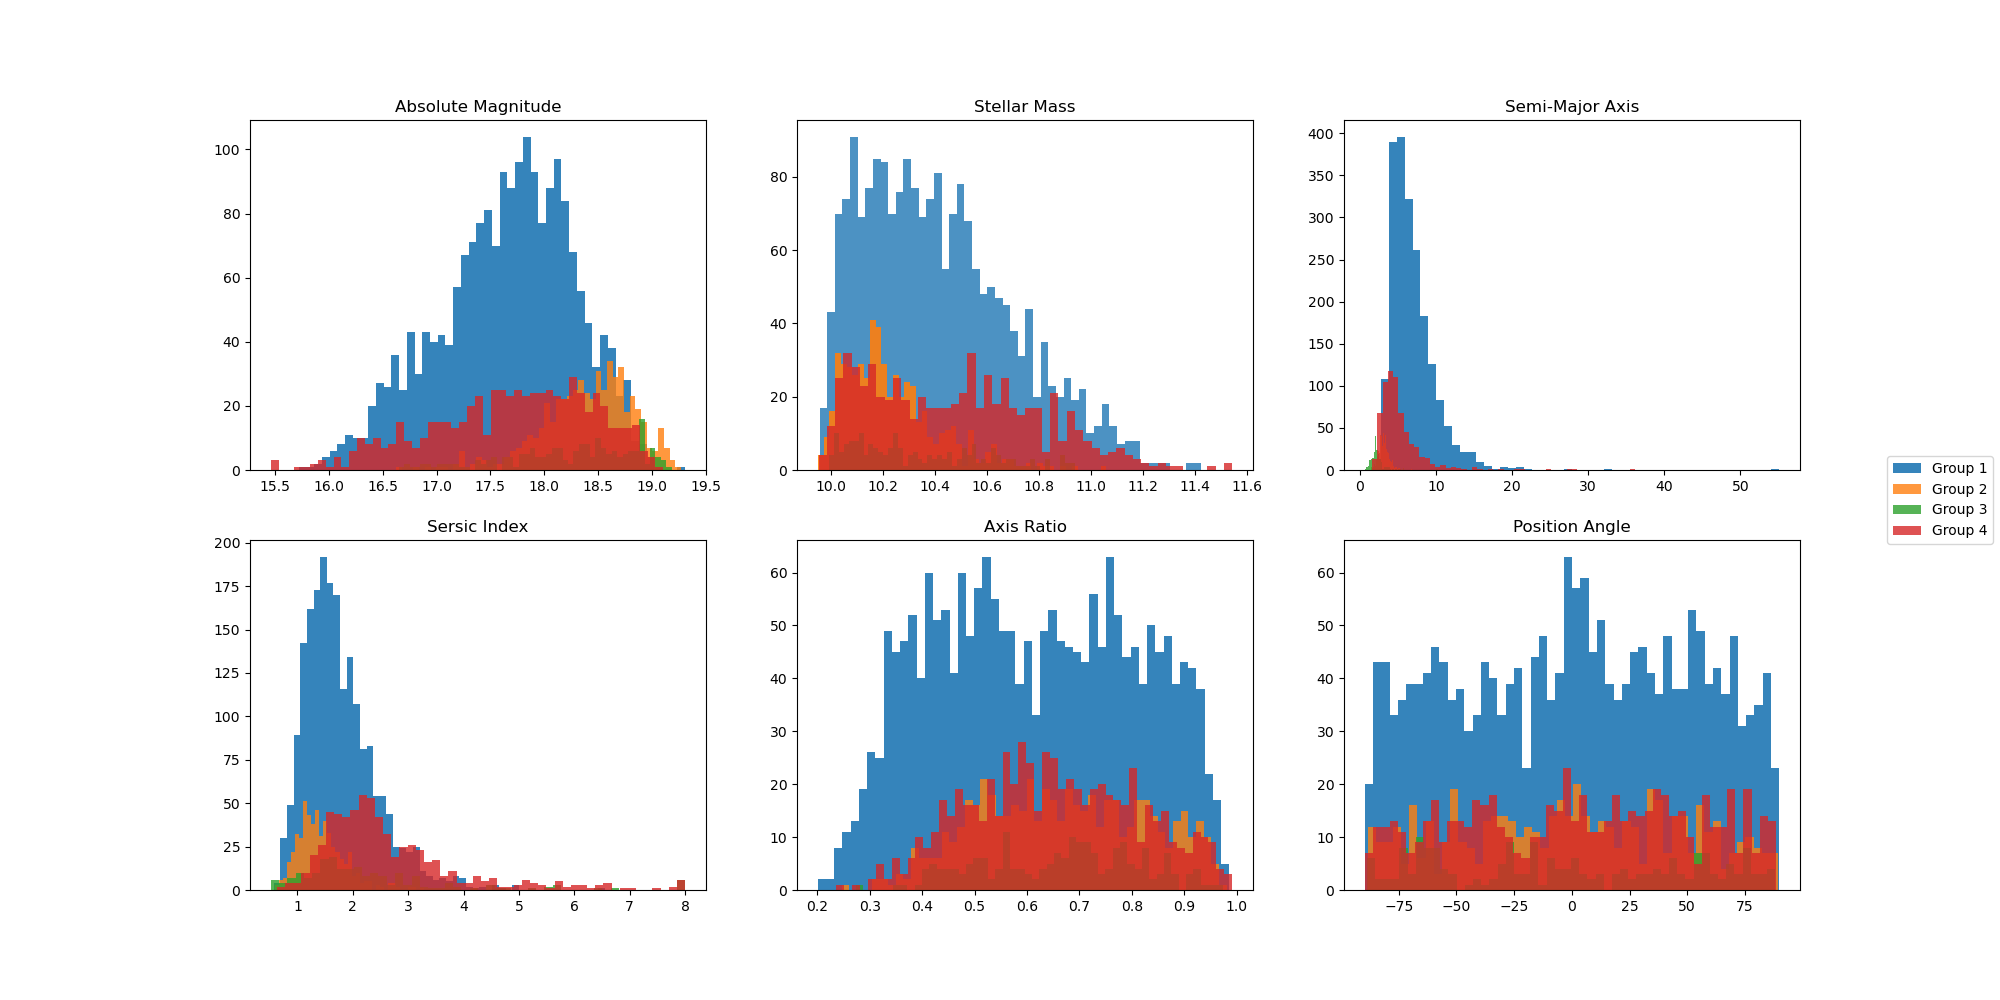
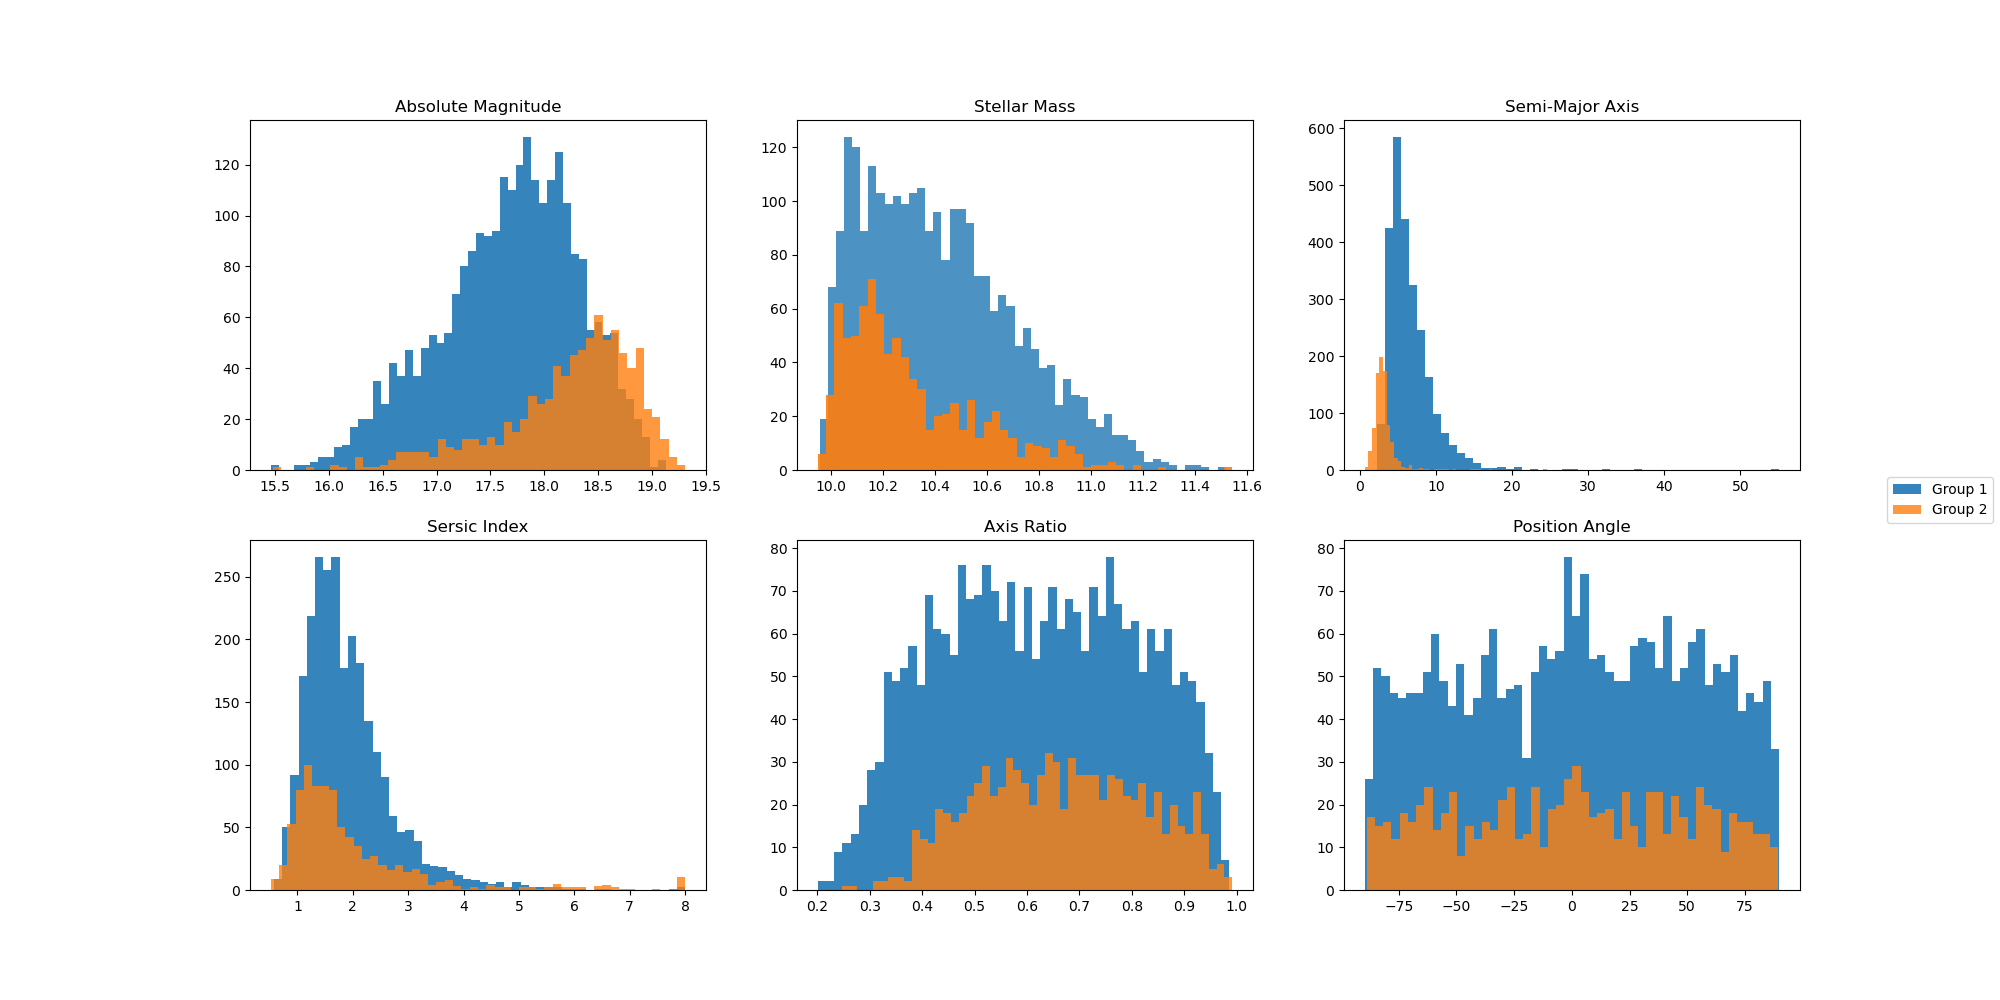
Code

diff --git a/property_comparison.py b/property_comparison.py
@@ -34,7 +34,7 @@ clusters_k = kmeans.fit_predict(extracted_features)
 centers_k = kmeans.cluster_centers_
 
 # perform hierarchical ward clustering
-hierarchical = AgglomerativeClustering(n_clusters=4, affinity="euclidean", linkage="ward")
+hierarchical = AgglomerativeClustering(n_clusters=2, affinity="euclidean", linkage="ward")
 
 # get hierarchical clusters
 clusters_h = hierarchical.fit_predict(extracted_features)
@@ -117,185 +117,187 @@ print(np.array(group_4).shape)
 
 
 
-# fig, axs = plt.subplots(2, 3, figsize=(20,10))
-#
-# axs[0, 0].hist(group_1["galfit_mag"], bins=50, alpha=0.9)
-# axs[0, 0].hist(group_2["galfit_mag"], bins=50, alpha=0.8)
+fig, axs = plt.subplots(2, 3, figsize=(20,10))
+
+axs[0, 0].hist(group_1["galfit_mag"], bins=50, alpha=0.9)
+axs[0, 0].hist(group_2["galfit_mag"], bins=50, alpha=0.8)
 # axs[0, 0].hist(group_3["galfit_mag"], bins=50, alpha=0.8)
 # axs[0, 0].hist(group_4["galfit_mag"], bins=50, alpha=0.8)
+axs[0, 0].set_title("Absolute Magnitude")
+
+# axs[0, 0].hist(group_1["galfit_mag"], bins=50, alpha=0.9, zorder=0)
+# axs[0, 0].hist(group_4["galfit_mag"], bins=50, alpha=0.8, zorder=10)
+# axs[0, 0].hist(group_2["galfit_mag"], bins=50, alpha=0.8, zorder=15)
+# axs[0, 0].hist(group_1["galfit_mag"], bins=50, alpha=0.8, zorder=5)
 # axs[0, 0].set_title("Absolute Magnitude")
-#
-# # axs[0, 0].hist(group_1["galfit_mag"], bins=50, alpha=0.9, zorder=0)
-# # axs[0, 0].hist(group_4["galfit_mag"], bins=50, alpha=0.8, zorder=10)
-# # axs[0, 0].hist(group_2["galfit_mag"], bins=50, alpha=0.8, zorder=15)
-# # axs[0, 0].hist(group_1["galfit_mag"], bins=50, alpha=0.8, zorder=5)
-# # axs[0, 0].set_title("Absolute Magnitude")
-#
-#
-# axs[0, 1].hist(group_1["galfit_lmstar"], bins=50, alpha=0.8)
-# axs[0, 1].hist(group_2["galfit_lmstar"], bins=50, alpha=0.9)
+
+
+axs[0, 1].hist(group_1["galfit_lmstar"], bins=50, alpha=0.8)
+axs[0, 1].hist(group_2["galfit_lmstar"], bins=50, alpha=0.9)
 # axs[0, 1].hist(group_3["galfit_lmstar"], bins=50, alpha=0.8)
 # axs[0, 1].hist(group_4["galfit_lmstar"], bins=50, alpha=0.8)
+axs[0, 1].set_title("Stellar Mass")
+
+# axs[0, 1].hist(group_1["galfit_lmstar"], bins=50, alpha=0.8, zorder=0)
+# axs[0, 1].hist(group_2["galfit_lmstar"], bins=50, alpha=0.9, zorder=10)
+# axs[0, 1].hist(group_3["galfit_lmstar"], bins=50, alpha=0.8, zorder=15)
+# axs[0, 1].hist(group_4["galfit_lmstar"], bins=50, alpha=0.8, zorder=5)
 # axs[0, 1].set_title("Stellar Mass")
-#
-# # axs[0, 1].hist(group_1["galfit_lmstar"], bins=50, alpha=0.8, zorder=0)
-# # axs[0, 1].hist(group_2["galfit_lmstar"], bins=50, alpha=0.9, zorder=10)
-# # axs[0, 1].hist(group_3["galfit_lmstar"], bins=50, alpha=0.8, zorder=15)
-# # axs[0, 1].hist(group_4["galfit_lmstar"], bins=50, alpha=0.8, zorder=5)
-# # axs[0, 1].set_title("Stellar Mass")
-#
-# axs[0, 2].hist(group_1["galfit_re"], bins=50, alpha=0.9)
-# axs[0, 2].hist(group_2["galfit_re"], bins=50, alpha=0.8)
+
+axs[0, 2].hist(group_1["galfit_re"], bins=50, alpha=0.9)
+axs[0, 2].hist(group_2["galfit_re"], bins=50, alpha=0.8)
 # axs[0, 2].hist(group_3["galfit_re"], bins=50, alpha=0.8)
 # axs[0, 2].hist(group_4["galfit_re"], bins=50, alpha=0.8)
-# axs[0, 2].set_title("Semi-Major Axis")
-#
-# axs[1, 0].hist(group_1["galfit_n"], bins=50, alpha=0.9)
-# axs[1, 0].hist(group_2["galfit_n"], bins=50, alpha=0.8)
+axs[0, 2].set_title("Semi-Major Axis")
+
+axs[1, 0].hist(group_1["galfit_n"], bins=50, alpha=0.9)
+axs[1, 0].hist(group_2["galfit_n"], bins=50, alpha=0.8)
 # axs[1, 0].hist(group_3["galfit_n"], bins=50, alpha=0.8)
 # axs[1, 0].hist(group_4["galfit_n"], bins=50, alpha=0.8)
-# axs[1, 0].set_title("Sersic Index")
-#
-# axs[1, 1].hist(group_1["galfit_q"], bins=50, alpha=0.9)
-# axs[1, 1].hist(group_2["galfit_q"], bins=50, alpha=0.8)
+axs[1, 0].set_title("Sersic Index")
+
+axs[1, 1].hist(group_1["galfit_q"], bins=50, alpha=0.9)
+axs[1, 1].hist(group_2["galfit_q"], bins=50, alpha=0.8)
 # axs[1, 1].hist(group_3["galfit_q"], bins=50, alpha=0.8)
 # axs[1, 1].hist(group_4["galfit_q"], bins=50, alpha=0.8)
-# axs[1, 1].set_title("Axis Ratio")
-#
-# axs[1, 2].hist(group_1["galfit_PA"], bins=50, alpha=0.9)
-# axs[1, 2].hist(group_2["galfit_PA"], bins=50, alpha=0.8)
+axs[1, 1].set_title("Axis Ratio")
+
+axs[1, 2].hist(group_1["galfit_PA"], bins=50, alpha=0.9)
+axs[1, 2].hist(group_2["galfit_PA"], bins=50, alpha=0.8)
 # axs[1, 2].hist(group_3["galfit_PA"], bins=50, alpha=0.8)
 # axs[1, 2].hist(group_4["galfit_PA"], bins=50, alpha=0.8)
-# axs[1, 2].set_title("Position Angle")
+axs[1, 2].set_title("Position Angle")
+
+fig.legend(labels=["Group 1", "Group 2"], loc="center right")
+
+plt.savefig("Plots/2_cluster_properties")
+plt.show()
+
+
+
+
+
+
+# group_1_random_index = random.sample(range(0, len(group_1_id)), 9)
+# group_2_random_index = random.sample(range(0, len(group_2_id)), 9)
+# group_3_random_index = random.sample(range(0, len(group_3_id)), 9)
+# group_4_random_index = random.sample(range(0, len(group_4_id)), 9)
 #
-# fig.legend(labels=["Group 1", "Group 2", "Group 3", "Group 4"], loc="center right")
+# group_1_random = group_1_id.iloc[group_1_random_index].tolist()
+# group_2_random = group_2_id.iloc[group_2_random_index].tolist()
+# group_3_random = group_3_id.iloc[group_3_random_index].tolist()
+# group_4_random = group_4_id.iloc[group_4_random_index].tolist()
 #
-# plt.savefig("Plots/2_cluster_properties")
+# # group_1_random = [3518865, 3533021, 10108400, 10452290, 9195988, 10625818, 17097594, 7164803, 9563813]
+# # group_2_random = [12485051, 9599139, 14266206, 9032934, 17858355, 10372952, 15996483, 9542933, 7144268]
+#
+# print(group_1_random)
+# print(group_2_random)
+# print(group_3_random)
+# print(group_4_random)
+#
+# # fig, axs = plt.subplots(3, 6, figsize=(20,10))
+#
+# fig = plt.figure(constrained_layout=False, figsize=(20, 20))
+#
+# # gs1 = fig.add_gridspec(nrows=3, ncols=3, left=0.05, right=0.48, wspace=0.05, hspace=0.05)
+# # gs2 = fig.add_gridspec(nrows=3, ncols=3, left=0.55, right=0.98, wspace=0.05, hspace=0.05)
+# gs1 = fig.add_gridspec(nrows=3, ncols=3, left=0.05, right=0.48, wspace=0.05, hspace=0.05, top=0.98, bottom=0.55)
+# gs2 = fig.add_gridspec(nrows=3, ncols=3, left=0.55, right=0.98, wspace=0.05, hspace=0.05, top=0.98, bottom=0.55)
+# gs3 = fig.add_gridspec(nrows=3, ncols=3, left=0.05, right=0.48, wspace=0.05, hspace=0.05, top=0.48, bottom=0.05)
+# gs4 = fig.add_gridspec(nrows=3, ncols=3, left=0.55, right=0.98, wspace=0.05, hspace=0.05, top=0.48, bottom=0.05)
+#
+# for i in range(0, 3):
+#
+#     g1_ax1 = fig.add_subplot(gs1[0, i])
+#     image = mpimg.imread("/cosma7/data/Eagle/web-storage/RefL0100N1504_Subhalo/galface_" + str(group_1_random[i]) + ".png")
+#     g1_ax1.imshow(image)
+#     g1_ax1.get_xaxis().set_visible(False)
+#     g1_ax1.get_yaxis().set_visible(False)
+#
+#     g1_ax2 = fig.add_subplot(gs1[1, i])
+#     image = mpimg.imread("/cosma7/data/Eagle/web-storage/RefL0100N1504_Subhalo/galface_" + str(group_1_random[i+3]) + ".png")
+#     g1_ax2.imshow(image)
+#     g1_ax2.get_xaxis().set_visible(False)
+#     g1_ax2.get_yaxis().set_visible(False)
+#
+#     g1_ax3 = fig.add_subplot(gs1[2, i])
+#     image = mpimg.imread("/cosma7/data/Eagle/web-storage/RefL0100N1504_Subhalo/galface_" + str(group_1_random[i+6]) + ".png")
+#     g1_ax3.imshow(image)
+#     g1_ax3.get_xaxis().set_visible(False)
+#     g1_ax3.get_yaxis().set_visible(False)
+#
+#
+#     g2_ax1 = fig.add_subplot(gs2[0, i])
+#     image = mpimg.imread("/cosma7/data/Eagle/web-storage/RefL0100N1504_Subhalo/galface_" + str(group_2_random[i]) + ".png")
+#     g2_ax1.imshow(image)
+#     g2_ax1.get_xaxis().set_visible(False)
+#     g2_ax1.get_yaxis().set_visible(False)
+#
+#     g2_ax2 = fig.add_subplot(gs2[1, i])
+#     image = mpimg.imread("/cosma7/data/Eagle/web-storage/RefL0100N1504_Subhalo/galface_" + str(group_2_random[i+3]) + ".png")
+#     g2_ax2.imshow(image)
+#     g2_ax2.get_xaxis().set_visible(False)
+#     g2_ax2.get_yaxis().set_visible(False)
+#
+#     g2_ax3 = fig.add_subplot(gs2[2, i])
+#     image = mpimg.imread("/cosma7/data/Eagle/web-storage/RefL0100N1504_Subhalo/galface_" + str(group_2_random[i+6]) + ".png")
+#     g2_ax3.imshow(image)
+#     g2_ax3.get_xaxis().set_visible(False)
+#     g2_ax3.get_yaxis().set_visible(False)
+#
+#
+#     g3_ax1 = fig.add_subplot(gs3[0, i])
+#     image = mpimg.imread("/cosma7/data/Eagle/web-storage/RefL0100N1504_Subhalo/galface_" + str(group_3_random[i]) + ".png")
+#     g3_ax1.imshow(image)
+#     g3_ax1.get_xaxis().set_visible(False)
+#     g3_ax1.get_yaxis().set_visible(False)
+#
+#     g3_ax2 = fig.add_subplot(gs3[1, i])
+#     image = mpimg.imread("/cosma7/data/Eagle/web-storage/RefL0100N1504_Subhalo/galface_" + str(group_3_random[i+3]) + ".png")
+#     g3_ax2.imshow(image)
+#     g3_ax2.get_xaxis().set_visible(False)
+#     g3_ax2.get_yaxis().set_visible(False)
+#
+#     g3_ax3 = fig.add_subplot(gs3[2, i])
+#     image = mpimg.imread("/cosma7/data/Eagle/web-storage/RefL0100N1504_Subhalo/galface_" + str(group_3_random[i+6]) + ".png")
+#     g3_ax3.imshow(image)
+#     g3_ax3.get_xaxis().set_visible(False)
+#     g3_ax3.get_yaxis().set_visible(False)
+#
+#
+#     g4_ax1 = fig.add_subplot(gs4[0, i])
+#     image = mpimg.imread("/cosma7/data/Eagle/web-storage/RefL0100N1504_Subhalo/galface_" + str(group_4_random[i]) + ".png")
+#     g4_ax1.imshow(image)
+#     g4_ax1.get_xaxis().set_visible(False)
+#     g4_ax1.get_yaxis().set_visible(False)
+#
+#     g4_ax2 = fig.add_subplot(gs4[1, i])
+#     image = mpimg.imread("/cosma7/data/Eagle/web-storage/RefL0100N1504_Subhalo/galface_" + str(group_4_random[i+3]) + ".png")
+#     g4_ax2.imshow(image)
+#     g4_ax2.get_xaxis().set_visible(False)
+#     g4_ax2.get_yaxis().set_visible(False)
+#
+#     g4_ax3 = fig.add_subplot(gs4[2, i])
+#     image = mpimg.imread("/cosma7/data/Eagle/web-storage/RefL0100N1504_Subhalo/galface_" + str(group_4_random[i+6]) + ".png")
+#     g4_ax3.imshow(image)
+#     g4_ax3.get_xaxis().set_visible(False)
+#     g4_ax3.get_yaxis().set_visible(False)
+#
+#
+#
+#
+#     if i == 1:
+#         g1_ax1.set_title(("Group 1 " + str(print(np.array(group_1).shape[0]))), fontsize=30, pad=20)
+#         g2_ax1.set_title(("Group 2 " + str(print(np.array(group_1).shape[0]))), fontsize=30, pad=20)
+#         g3_ax1.set_title(("Group 3 " + str(print(np.array(group_1).shape[0]))), fontsize=30, pad=20)
+#         g4_ax1.set_title(("Group 4 " + str(print(np.array(group_1).shape[0]))), fontsize=30, pad=20)
+#
+#
+#
+# plt.savefig("Plots/4_cluster_" + str(encoding_dim) + "_feature_originals_4")
 # plt.show()
 
-
-
-
-
-group_1_random_index = random.sample(range(0, len(group_1_id)), 9)
-group_2_random_index = random.sample(range(0, len(group_2_id)), 9)
-group_3_random_index = random.sample(range(0, len(group_3_id)), 9)
-group_4_random_index = random.sample(range(0, len(group_4_id)), 9)
-
-group_1_random = group_1_id.iloc[group_1_random_index].tolist()
-group_2_random = group_2_id.iloc[group_2_random_index].tolist()
-group_3_random = group_3_id.iloc[group_3_random_index].tolist()
-group_4_random = group_4_id.iloc[group_4_random_index].tolist()
-
-# group_1_random = [3518865, 3533021, 10108400, 10452290, 9195988, 10625818, 17097594, 7164803, 9563813]
-# group_2_random = [12485051, 9599139, 14266206, 9032934, 17858355, 10372952, 15996483, 9542933, 7144268]
-
-print(group_1_random)
-print(group_2_random)
-print(group_3_random)
-print(group_4_random)
-
-# fig, axs = plt.subplots(3, 6, figsize=(20,10))
-
-fig = plt.figure(constrained_layout=False, figsize=(20, 20))
-
-# gs1 = fig.add_gridspec(nrows=3, ncols=3, left=0.05, right=0.48, wspace=0.05, hspace=0.05)
-# gs2 = fig.add_gridspec(nrows=3, ncols=3, left=0.55, right=0.98, wspace=0.05, hspace=0.05)
-gs1 = fig.add_gridspec(nrows=3, ncols=3, left=0.05, right=0.48, wspace=0.05, hspace=0.05, top=0.98, bottom=0.55)
-gs2 = fig.add_gridspec(nrows=3, ncols=3, left=0.55, right=0.98, wspace=0.05, hspace=0.05, top=0.98, bottom=0.55)
-gs3 = fig.add_gridspec(nrows=3, ncols=3, left=0.05, right=0.48, wspace=0.05, hspace=0.05, top=0.48, bottom=0.05)
-gs4 = fig.add_gridspec(nrows=3, ncols=3, left=0.55, right=0.98, wspace=0.05, hspace=0.05, top=0.48, bottom=0.05)
-
-for i in range(0, 3):
-
-    g1_ax1 = fig.add_subplot(gs1[0, i])
-    image = mpimg.imread("/cosma7/data/Eagle/web-storage/RefL0100N1504_Subhalo/galface_" + str(group_1_random[i]) + ".png")
-    g1_ax1.imshow(image)
-    g1_ax1.get_xaxis().set_visible(False)
-    g1_ax1.get_yaxis().set_visible(False)
-
-    g1_ax2 = fig.add_subplot(gs1[1, i])
-    image = mpimg.imread("/cosma7/data/Eagle/web-storage/RefL0100N1504_Subhalo/galface_" + str(group_1_random[i+3]) + ".png")
-    g1_ax2.imshow(image)
-    g1_ax2.get_xaxis().set_visible(False)
-    g1_ax2.get_yaxis().set_visible(False)
-
-    g1_ax3 = fig.add_subplot(gs1[2, i])
-    image = mpimg.imread("/cosma7/data/Eagle/web-storage/RefL0100N1504_Subhalo/galface_" + str(group_1_random[i+6]) + ".png")
-    g1_ax3.imshow(image)
-    g1_ax3.get_xaxis().set_visible(False)
-    g1_ax3.get_yaxis().set_visible(False)
-
-
-    g2_ax1 = fig.add_subplot(gs2[0, i])
-    image = mpimg.imread("/cosma7/data/Eagle/web-storage/RefL0100N1504_Subhalo/galface_" + str(group_2_random[i]) + ".png")
-    g2_ax1.imshow(image)
-    g2_ax1.get_xaxis().set_visible(False)
-    g2_ax1.get_yaxis().set_visible(False)
-
-    g2_ax2 = fig.add_subplot(gs2[1, i])
-    image = mpimg.imread("/cosma7/data/Eagle/web-storage/RefL0100N1504_Subhalo/galface_" + str(group_2_random[i+3]) + ".png")
-    g2_ax2.imshow(image)
-    g2_ax2.get_xaxis().set_visible(False)
-    g2_ax2.get_yaxis().set_visible(False)
-
-    g2_ax3 = fig.add_subplot(gs2[2, i])
-    image = mpimg.imread("/cosma7/data/Eagle/web-storage/RefL0100N1504_Subhalo/galface_" + str(group_2_random[i+6]) + ".png")
-    g2_ax3.imshow(image)
-    g2_ax3.get_xaxis().set_visible(False)
-    g2_ax3.get_yaxis().set_visible(False)
-
-
-    g3_ax1 = fig.add_subplot(gs3[0, i])
-    image = mpimg.imread("/cosma7/data/Eagle/web-storage/RefL0100N1504_Subhalo/galface_" + str(group_3_random[i]) + ".png")
-    g3_ax1.imshow(image)
-    g3_ax1.get_xaxis().set_visible(False)
-    g3_ax1.get_yaxis().set_visible(False)
-
-    g3_ax2 = fig.add_subplot(gs3[1, i])
-    image = mpimg.imread("/cosma7/data/Eagle/web-storage/RefL0100N1504_Subhalo/galface_" + str(group_3_random[i+3]) + ".png")
-    g3_ax2.imshow(image)
-    g3_ax2.get_xaxis().set_visible(False)
-    g3_ax2.get_yaxis().set_visible(False)
-
-    g3_ax3 = fig.add_subplot(gs3[2, i])
-    image = mpimg.imread("/cosma7/data/Eagle/web-storage/RefL0100N1504_Subhalo/galface_" + str(group_3_random[i+6]) + ".png")
-    g3_ax3.imshow(image)
-    g3_ax3.get_xaxis().set_visible(False)
-    g3_ax3.get_yaxis().set_visible(False)
-
-
-    g4_ax1 = fig.add_subplot(gs4[0, i])
-    image = mpimg.imread("/cosma7/data/Eagle/web-storage/RefL0100N1504_Subhalo/galface_" + str(group_4_random[i]) + ".png")
-    g4_ax1.imshow(image)
-    g4_ax1.get_xaxis().set_visible(False)
-    g4_ax1.get_yaxis().set_visible(False)
-
-    g4_ax2 = fig.add_subplot(gs4[1, i])
-    image = mpimg.imread("/cosma7/data/Eagle/web-storage/RefL0100N1504_Subhalo/galface_" + str(group_4_random[i+3]) + ".png")
-    g4_ax2.imshow(image)
-    g4_ax2.get_xaxis().set_visible(False)
-    g4_ax2.get_yaxis().set_visible(False)
-
-    g4_ax3 = fig.add_subplot(gs4[2, i])
-    image = mpimg.imread("/cosma7/data/Eagle/web-storage/RefL0100N1504_Subhalo/galface_" + str(group_4_random[i+6]) + ".png")
-    g4_ax3.imshow(image)
-    g4_ax3.get_xaxis().set_visible(False)
-    g4_ax3.get_yaxis().set_visible(False)
-
-
-
-
-    if i == 1:
-        g1_ax1.set_title(("Group 1 " + str(print(np.array(group_1).shape[0]))), fontsize=30, pad=20)
-        g2_ax1.set_title(("Group 2 " + str(print(np.array(group_1).shape[0]))), fontsize=30, pad=20)
-        g3_ax1.set_title(("Group 3 " + str(print(np.array(group_1).shape[0]))), fontsize=30, pad=20)
-        g4_ax1.set_title(("Group 4 " + str(print(np.array(group_1).shape[0]))), fontsize=30, pad=20)
-
-
-
-plt.savefig("Plots/4_cluster_" + str(encoding_dim) + "_feature_originals_4")
-plt.show()
 
 
 
